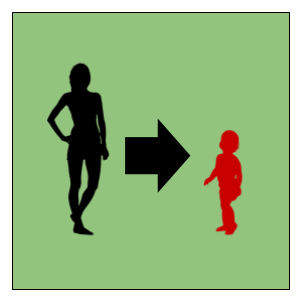
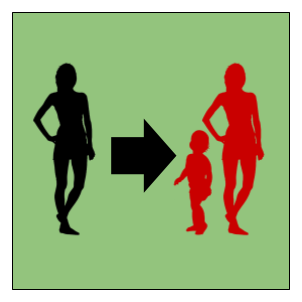
Fertility faces 4 and 5 now share art
Face 5 was "mother, then child alone"; it is now the same outcome as
face 4, so the die reads 1 / 2-3 / 4-5 / 6 the way the tribe die does.

Changed region(s): [[0.447, 0.2086, 0.894, 0.8046], [0.0894, 0.2086, 0.4172, 0.8046]]

diff --git a/README.md b/README.md
@@ -32,8 +32,8 @@ no dependencies — open `index.html` or serve the folder.
 
 Steppers are clamped to the "Available" column, so you can never build a pool the box can't fill.
 
-Some faces repeat on the physical die (fertility 2–3; tribe 2–3, 4–5 and the two empty 7–8), so the
-face reference shows the same art more than once — that is the die, not a duplicate image.
+Some faces repeat on the physical die (fertility 2–3 and 4–5; tribe 2–3, 4–5 and the two empty 7–8),
+so the face reference shows the same art more than once — that is the die, not a duplicate image.
 
 ## Dice art
 
